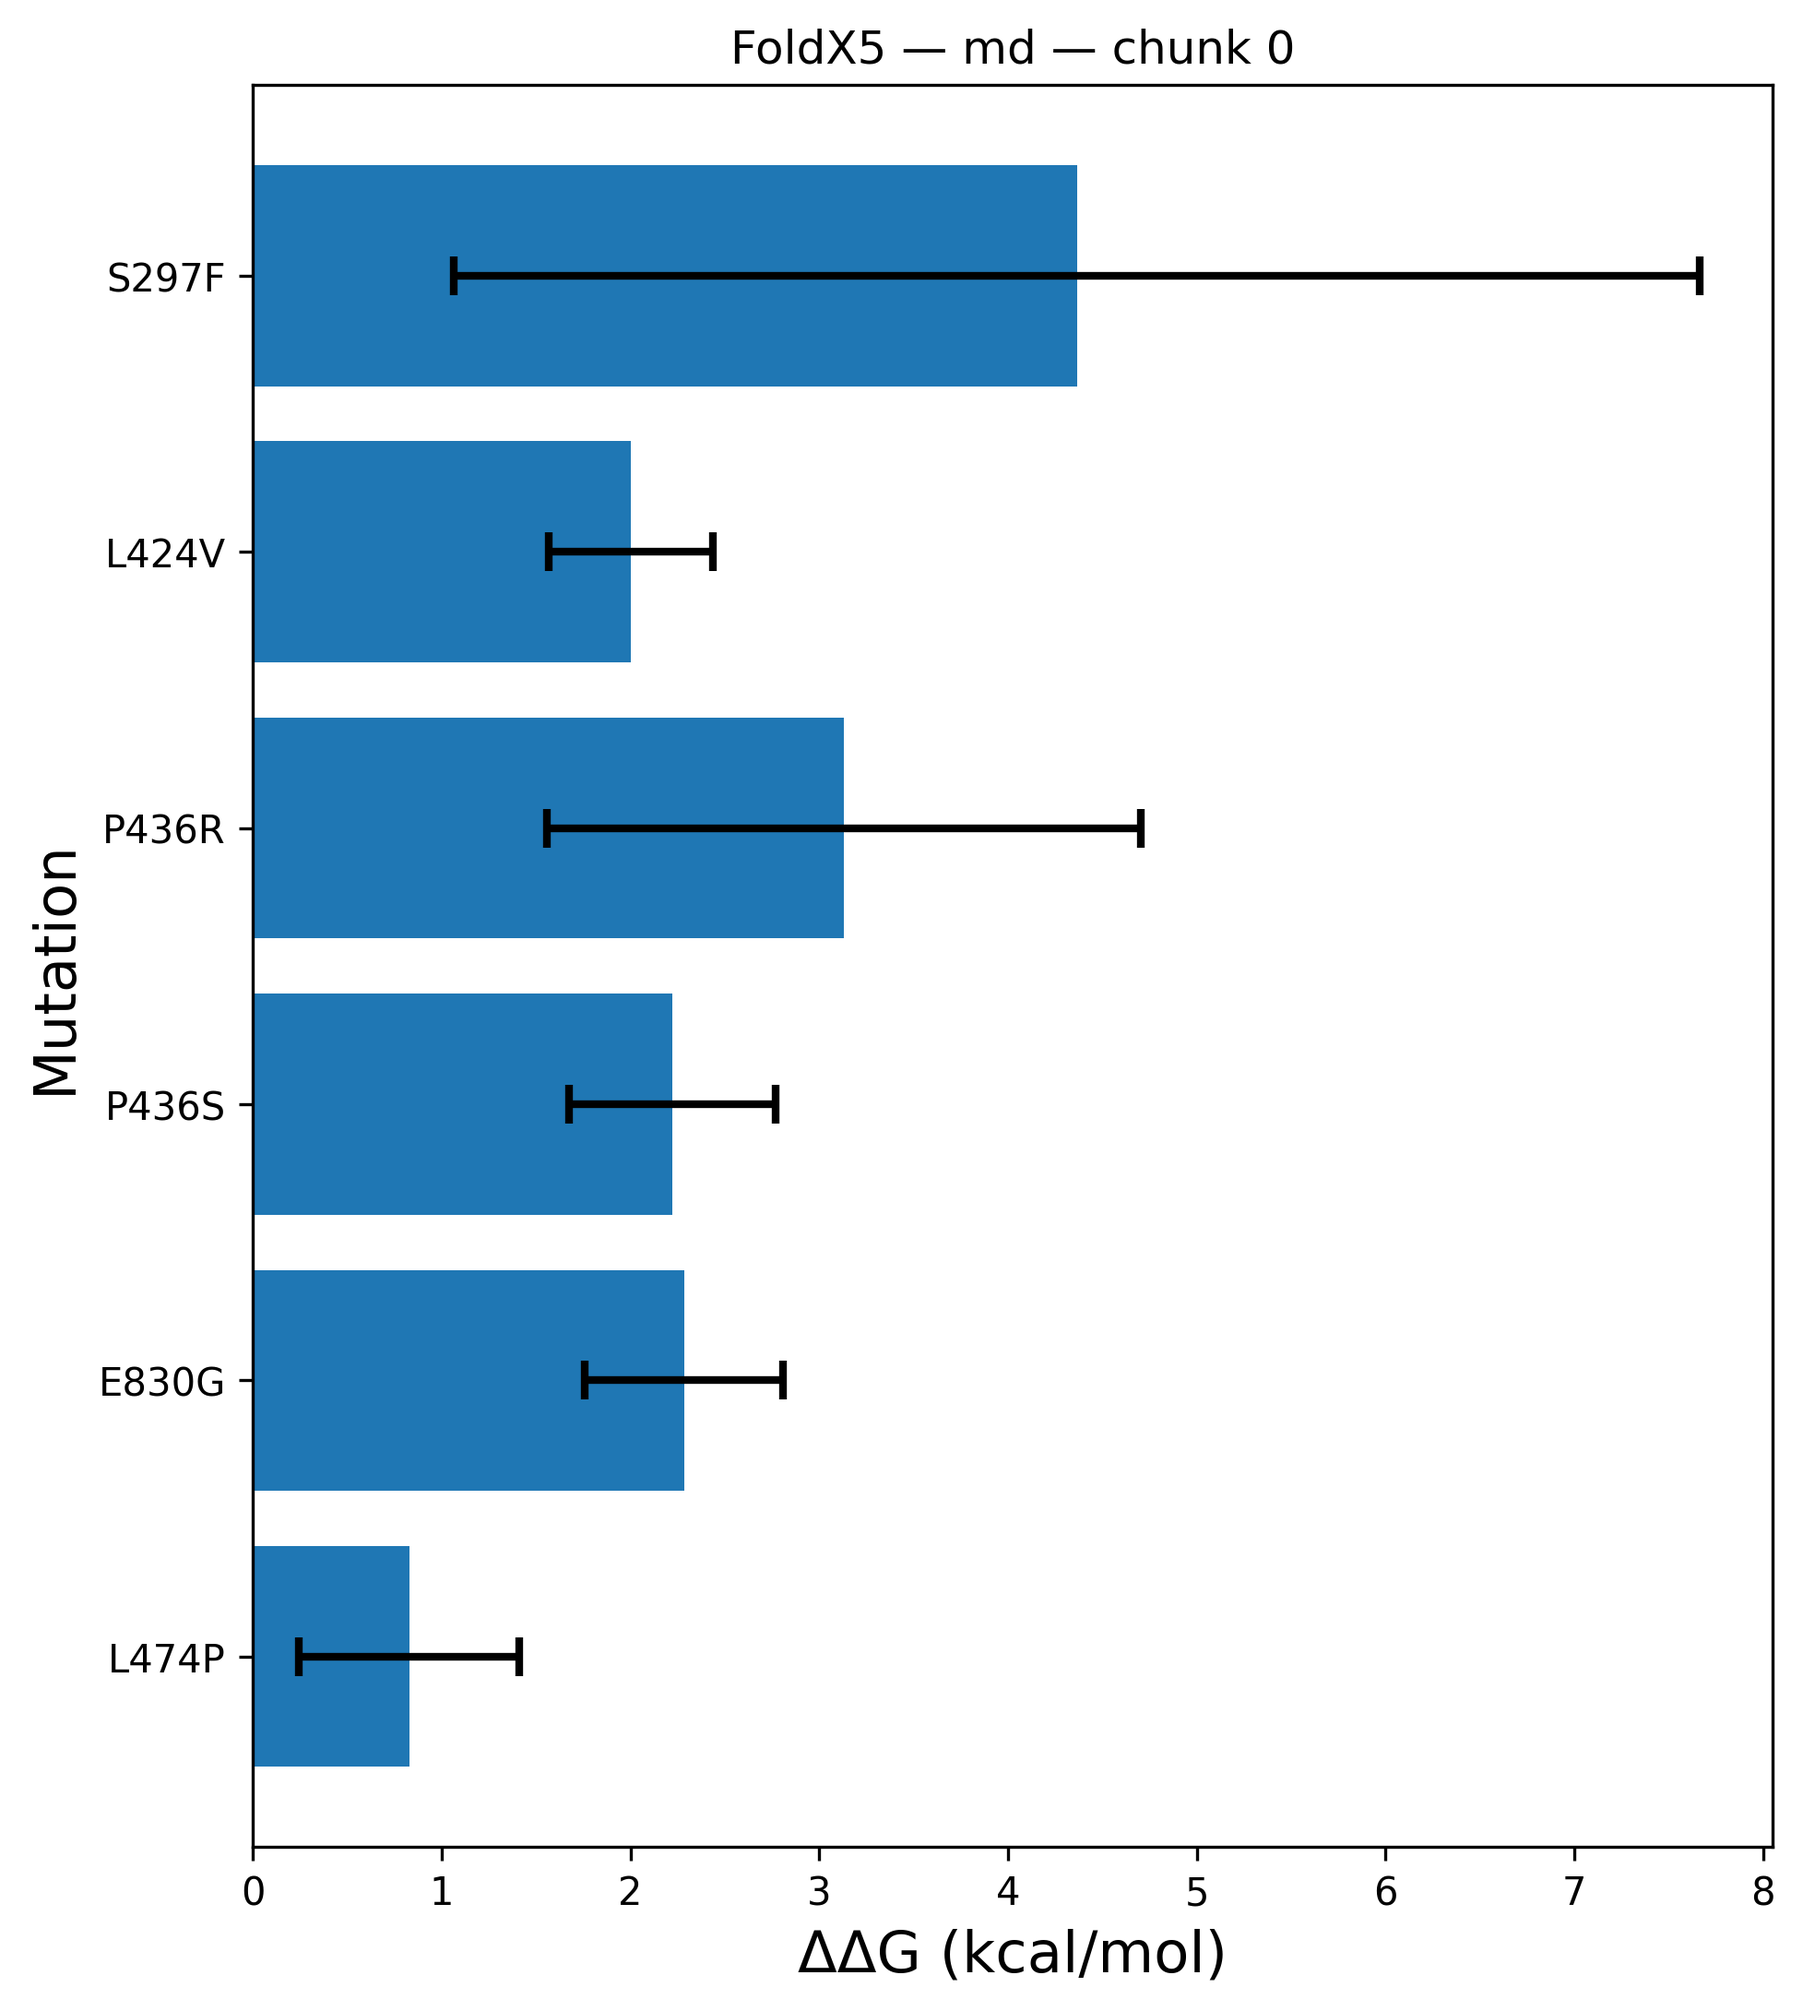
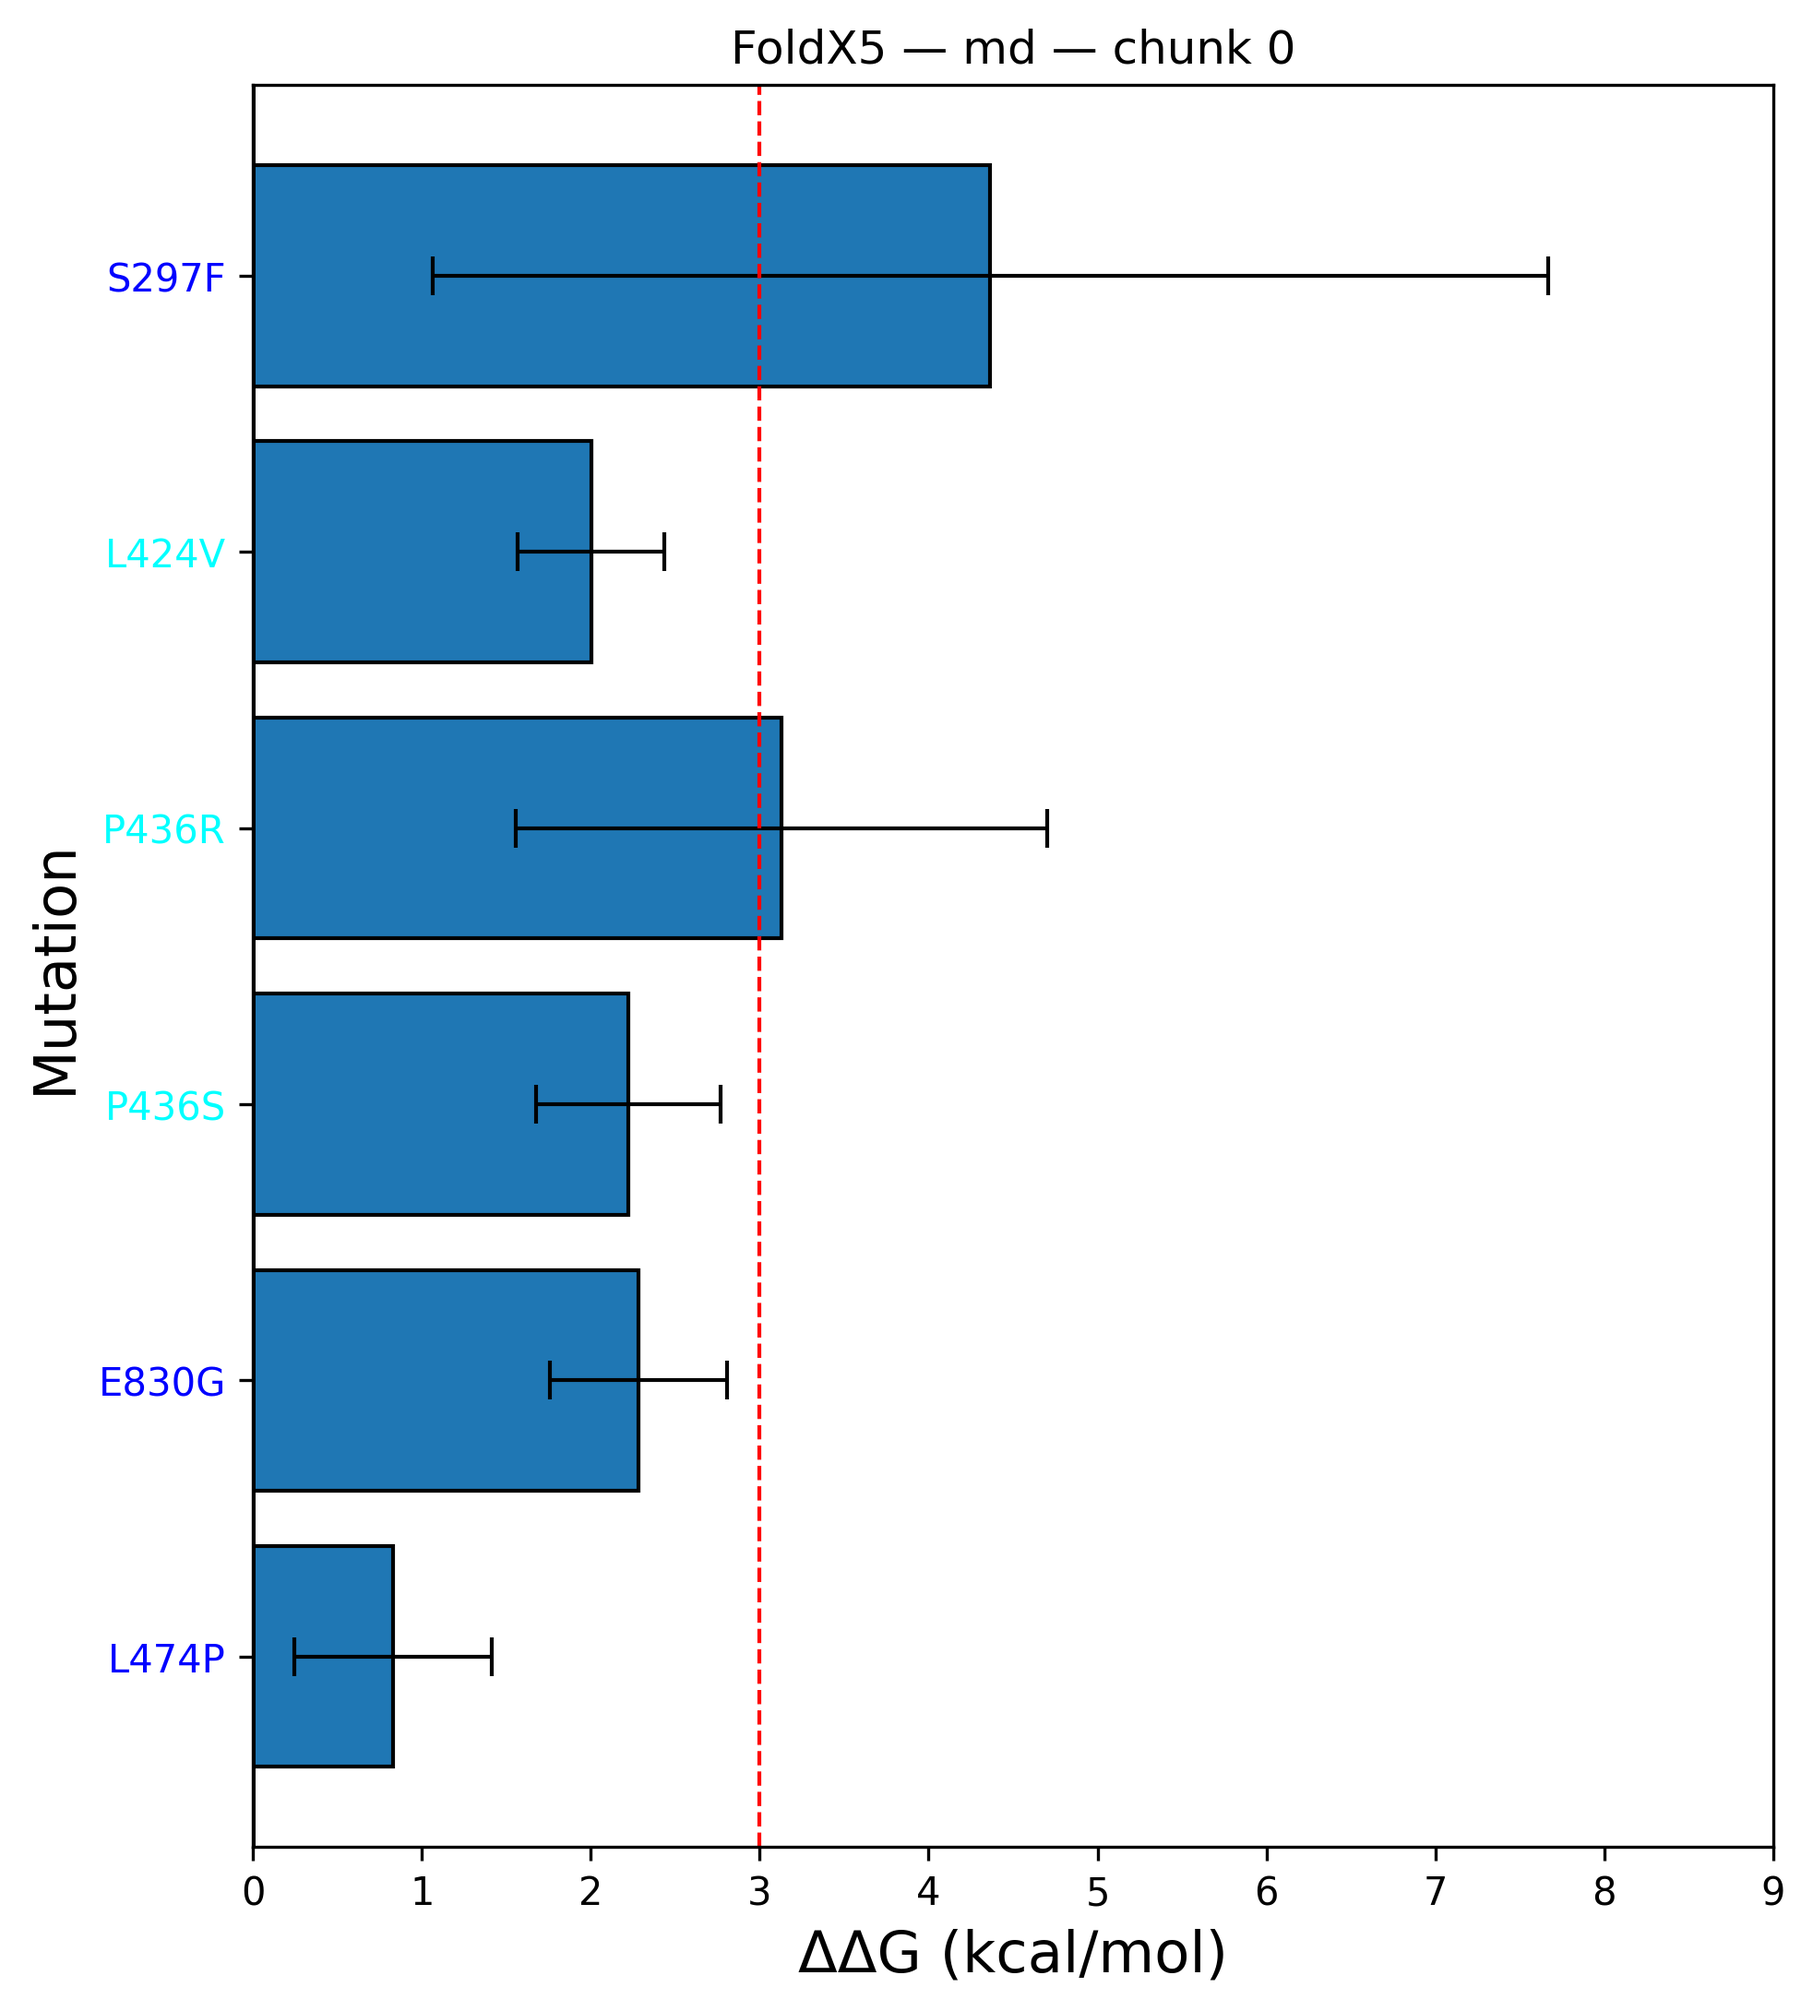
Update stability scripts with columns borders and DDG lines

diff --git a/stability_barplot/stability_barplot.py b/stability_barplot/stability_barplot.py
@@ -14,7 +14,7 @@ import os
 import argparse
 import re
 import matplotlib.cm as cm
-
+from matplotlib.lines import Line2D
 
 # ============================================================
 # REGEX TO PARSE STABILITY COLUMNS
@@ -125,7 +125,7 @@ def extract_method_name(col_name):
     return col_name
 
 
-def dynamic_errorbar_style(n_bars, base_capsize=5, base_linewidth=2, base_capthick=2):
+def dynamic_errorbar_style(n_bars, base_capsize=5, base_linewidth=1, base_capthick=1):
     """
     Reduces the size/line width of the error bars based on the total number of bars.
     """
@@ -207,12 +207,38 @@ def plot_chunk(chunk, method, ensemble, ddg_col, std_col, args, idx):
     fig, ax = plt.subplots(figsize=(args.figure_width/2.54, args.figure_height/2.54))
     n_bars = len(labels)
     style = dynamic_errorbar_style(n_bars)
+    
+    ddg_array = ddg.to_numpy(dtype=float)
+    has_pos = np.any(ddg_array > 0) 
+    has_neg = np.any(ddg_array < 0)
 
     # =============================
     #  VERTICAL MODE
     # =============================
     if args.barh:
-        ax.barh(labels, ddg, xerr=std, color=bar_color, **style)
+        ax.barh(labels, ddg, xerr=std, color=bar_color, edgecolor="black",linewidth=1.0, **style)
+        ax.axvline(0, color="black", linewidth=1.2)
+        if has_pos:
+            ax.axvline(3, color="red", linestyle="--", linewidth=1.0)   # UPDATED: +3 threshold
+        if has_neg:
+            ax.axvline(-3, color="red", linestyle="--", linewidth=1.0)  # UPDATED: -3 threshold
+
+        # ensure the ±3 lines and ticks are visible when they exist  # UPDATED
+        xmin, xmax = ax.get_xlim()
+        if has_pos:
+            xmax = max(xmax, 3)
+        if has_neg:
+            xmin = min(xmin, -3)
+        ax.set_xlim(xmin, xmax)
+
+        xticks = list(ax.get_xticks())
+        if has_pos and 3 not in xticks:
+            xticks.append(3)
+        if has_neg and -3 not in xticks:
+            xticks.append(-3)
+        xticks = sorted(xticks)
+        ax.set_xticks(xticks)
+
         ax.invert_yaxis()
         ax.set_xlabel("ΔΔG (kcal/mol)", fontsize=args.y_title)
         ax.set_ylabel("Mutation", fontsize=args.x_title)
@@ -224,7 +250,7 @@ def plot_chunk(chunk, method, ensemble, ddg_col, std_col, args, idx):
         )
 
         for tick, c in zip(ax.get_yticklabels(), colors):
-            tick.set_color(c)
+            tick.set_color(c)       
 
         ax.set_title(f"{method} — {ensemble} — chunk {idx}")
         return fig
@@ -232,7 +258,30 @@ def plot_chunk(chunk, method, ensemble, ddg_col, std_col, args, idx):
     # =============================
     #  HORIZONTAL MODE
     # =============================
-    ax.bar(labels, ddg, yerr=std, color=bar_color, **style)
+    ax.bar(labels, ddg, yerr=std, color=bar_color,edgecolor="black", linewidth=1.0, **style)
+    ax.axhline(0, color="black", linewidth=1.2)
+
+    if has_pos:
+        ax.axhline(3, color="red", linestyle="--", linewidth=1.0)   # UPDATED: +3 threshold
+    if has_neg:
+        ax.axhline(-3, color="red", linestyle="--", linewidth=1.0)  # UPDATED: -3 threshold
+
+    # ensure the ±3 lines and ticks are visible when they exist  # UPDATED
+    ymin, ymax = ax.get_ylim()
+    if has_pos:
+        ymax = max(ymax, 3)
+    if has_neg:
+        ymin = min(ymin, -3)
+    ax.set_ylim(ymin, ymax)
+
+    yticks = list(ax.get_yticks())
+    if has_pos and 3 not in yticks:
+        yticks.append(3)
+    if has_neg and -3 not in yticks:
+        yticks.append(-3)
+    yticks = sorted(yticks)
+    ax.set_yticks(yticks)
+
     ax.set_ylabel("ΔΔG (kcal/mol)", fontsize=args.y_title)
     ax.set_xlabel("Mutation", fontsize=args.x_title)
     ax.set_xticks(range(len(labels)))
@@ -345,13 +394,17 @@ def plot_grouped_methods(chunk, parsed, ensemble, args, idx, specific_cols=None)
         if args.barh:
             ax.barh(x + offsets[i], data[i], xerr=errors[i],
                     color=colors_bars[i], height=bar_width,
-                    label=legend_labels[i], **style)
+                    label=legend_labels[i], edgecolor="black",linewidth=1.0,  **style)
         else:
             ax.bar(x + offsets[i], data[i], yerr=errors[i],
                    color=colors_bars[i], width=bar_width,
-                   label=legend_labels[i], **style)
+                   label=legend_labels[i], edgecolor="black", linewidth=1.0,  **style)
 
     # Labels
+    all_vals = np.concatenate(data) if len(data) > 0 else np.array([0.0])
+    has_pos = np.any(all_vals > 0)
+    has_neg = np.any(all_vals < 0)
+    
     if args.barh:
         ax.set_yticks(x)
         ax.set_yticklabels(
@@ -365,6 +418,27 @@ def plot_grouped_methods(chunk, parsed, ensemble, args, idx, specific_cols=None)
         ax.invert_yaxis()
         for tick, c in zip(ax.get_yticklabels(), colors):
             tick.set_color(c)
+        ax.axvline(0, color="black", linewidth=1.2)
+
+        if has_pos:
+            ax.axvline(3, color="red", linestyle="--", linewidth=1.0)
+        if has_neg:
+            ax.axvline(-3, color="red", linestyle="--", linewidth=1.0) 
+        
+        xmin, xmax = ax.get_xlim()
+        if has_pos:
+            xmax = max(xmax, 3)
+        if has_neg:
+            xmin = min(xmin, -3)
+        ax.set_xlim(xmin, xmax)
+
+        xticks = list(ax.get_xticks())
+        if has_pos and 3 not in xticks:
+            xticks.append(3)
+        if has_neg and -3 not in xticks:
+            xticks.append(-3)
+        xticks = sorted(xticks)
+        ax.set_xticks(xticks)
     else:
         ax.set_xticks(x)
         ax.set_xticklabels(
@@ -379,6 +453,26 @@ def plot_grouped_methods(chunk, parsed, ensemble, args, idx, specific_cols=None)
         ax.set_xlabel("Mutation", fontsize=args.x_title)
         for tick, c in zip(ax.get_xticklabels(), colors):
             tick.set_color(c)
+        ax.axhline(0, color="black", linewidth=1.2)
+
+        if has_pos:
+            ax.axhline(3, color="red", linestyle="--", linewidth=1.0)
+        if has_neg:
+            ax.axhline(-3, color="red", linestyle="--", linewidth=1.0)
+        ymin, ymax = ax.get_ylim()
+        if has_pos:
+            ymax = max(ymax, 3)
+        if has_neg:
+            ymin = min(ymin, -3)
+        ax.set_ylim(ymin, ymax)
+
+        yticks = list(ax.get_yticks())
+        if has_pos and 3 not in yticks:
+            yticks.append(3)
+        if has_neg and -3 not in yticks:
+            yticks.append(-3)
+        yticks = sorted(yticks)
+        ax.set_yticks(yticks)
 
     ax.set_title(f"Grouped methods — ensemble {ensemble} — chunk {idx}")
     ax.legend(bbox_to_anchor=(1.02, 1), loc="upper left")
@@ -465,6 +559,22 @@ def load_and_combine(input_folder, grouped_columns=None):
 def ensure(path):
     if not os.path.exists(path):
         os.makedirs(path)
+
+def sanitize_name(name):
+    """
+    Replace unsafe characters in method/ensemble names
+    so they can be safely used as folder names.
+    """
+    return name.replace(" ", "_")
+
+def grouped_folder_root(args):
+    """
+    Return the folder where grouped plots should go.
+    If --grouped_columns is used → place them in a global folder.
+    Otherwise → place them inside each ensemble.
+    """
+    return "grouped_methods" if args.grouped_columns else None
+
 
 
 # ============================================================
@@ -680,7 +790,7 @@ def main():
                         continue
                     std_col = ensembles[ensemble].get("std", None)
                     # Standard plot
-                    out_dir = os.path.join(output_folder, ensemble, method)
+                    out_dir = os.path.join(output_folder, sanitize_name(ensemble), sanitize_name(method))
                     ensure(out_dir)
                     fig = plot_chunk(chunk, method, ensemble, ddg_col, std_col, args, idx)
                     outfile = os.path.join(out_dir, f"{method}_{ensemble}_chunk_{idx}.png")
@@ -689,17 +799,21 @@ def main():
                     print("Saved:", outfile)
 
             # Grouped methods plot
-            for ensemble in set([e for m in parsed for e in parsed[m]]):
-                grouped_dir = os.path.join(output_folder, ensemble, "grouped_methods")
+            all_ensembles = sorted({e for m in parsed for e in parsed[m]})
+
+            if args.grouped_columns:
+                if not all_ensembles:
+                    continue
+                ensemble_for_plot = all_ensembles[0]
+                grouped_dir = os.path.join(output_folder, "grouped_methods")
                 ensure(grouped_dir)
                 fig2, legend_labels, data_vals, errors_vals = plot_grouped_methods(
                     chunk, parsed, ensemble, args, idx, specific_cols=args.grouped_columns
                 )
-                outfile2 = os.path.join(grouped_dir, f"grouped_{ensemble}_chunk_{idx}.png")
+                outfile2 = os.path.join(grouped_dir, f"grouped_chunk_{idx}.png")
                 fig2.savefig(outfile2, dpi=300, bbox_inches='tight')
                 plt.close(fig2)
                 print("Saved grouped:", outfile2)
-
                 # Save CSV
                 csv_cols = ["Mutation"]
                 if args.grouped_columns:
@@ -721,9 +835,32 @@ def main():
                             csv_cols.append(ensembles_dict[ensemble]["ddg"])
                             if "std" in ensembles_dict[ensemble]:
                                 csv_cols.append(ensembles_dict[ensemble]["std"])
-                csv_file = os.path.join(grouped_dir, f"grouped_{ensemble}_chunk_{idx}.csv")
-                chunk[csv_cols].to_csv(csv_file, index=False)
+                csv_file = os.path.join(grouped_dir, f"grouped_chunk_{idx}.csv")
+                chunk[csv_cols].to_csv(csv_file, index=False)       
 
+            else:
+                for ensemble in all_ensembles:
+                    grouped_dir = os.path.join(output_folder, sanitize_name(ensemble), "grouped_methods")
+                    ensure(grouped_dir)
+                    fig2, legend_labels, data_vals, errors_vals = plot_grouped_methods(
+                        chunk, parsed, ensemble, args, idx, specific_cols=None
+                    )
+                    outfile2 = os.path.join(grouped_dir, f"grouped_{ensemble}_chunk_{idx}.png")
+                    fig2.savefig(outfile2, dpi=300, bbox_inches='tight')
+                    plt.close(fig2)
+                    print("Saved grouped:", outfile2)
+
+                    # Save CSV per ensemble (as before)
+                    csv_cols = ["Mutation"]
+                    for method_name, ensembles_dict in parsed.items():
+                        if ensemble in ensembles_dict:
+                            csv_cols.append(ensembles_dict[ensemble]["ddg"])
+                            if "std" in ensembles_dict[ensemble]:
+                                csv_cols.append(ensembles_dict[ensemble]["std"])
+
+                    csv_file = os.path.join(grouped_dir, f"grouped_{ensemble}_chunk_{idx}.csv")
+                    chunk[csv_cols].to_csv(csv_file, index=False)
 
 if __name__ == "__main__":
     main()
+
